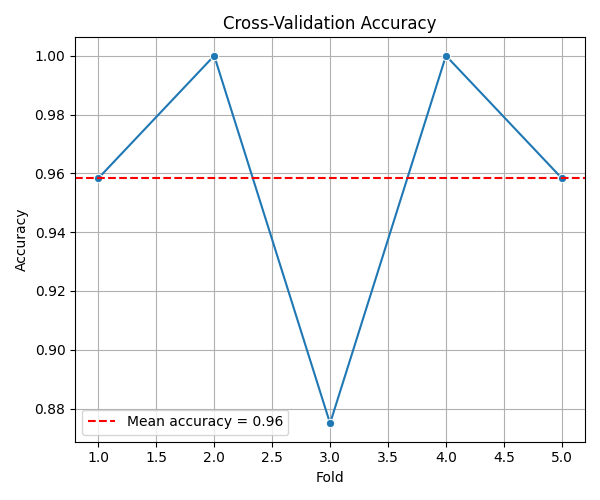
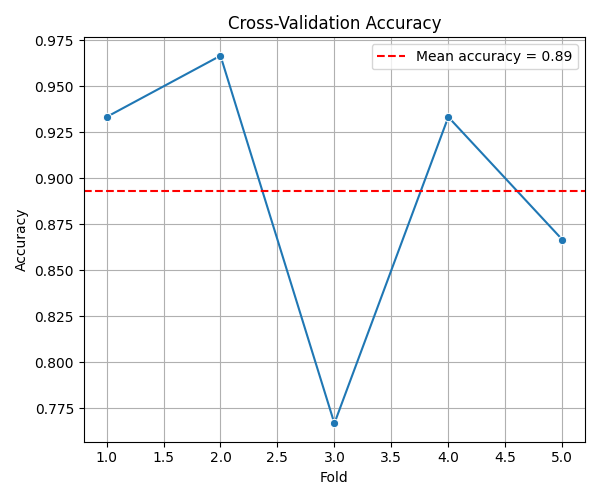
upgarde

diff --git a/main.py b/main.py
@@ -11,19 +11,23 @@ from src.evaluate import evaluate
 from src.visualize import (
     plot_confusion_matrix,
     plot_pca_3d,
-    plot_cross_validation
+    plot_pca_2d_with_boundary,
+    plot_cross_validation,
+    plot_train_val_loss
 )
+from sklearn.linear_model import LogisticRegression
 from src.cross_validation import cross_validate
 from src.config_loader import load_config
-
+from src.train_with_loss import train_with_loss
 
 def main():
-    #1.Load config
+    # 1. Load config
     config = load_config()
 
-    #2.Load data
+    # 2. Load data
     X, y = load_data("data/iris.csv")
 
+    # 3. Cross-validation
     print("---Thực hiện Cross-Validation (K=5)---")
 
     pipeline = make_pipeline(
@@ -48,41 +52,74 @@ def main():
     print(f"Accuracy trung bình: {np.mean(scores):.4f} ± {np.std(scores):.4f}")
     print("-------------------------------------------\n")
 
-    #3.Train / test split
+    # 4. Train / Test split
     X_train, X_test, y_train, y_test = train_test_split(
-        X, y,
-        test_size=config["data"]["test_size"],
-        random_state=config["data"]["random_state"]
+    X, y,  # ← Từ toàn bộ dữ liệu
+    test_size=config["data"]["test_size"],
+    random_state=config["data"]["random_state"],
+    stratify=y
     )
 
-    # 4.Preprocess
-    X_train, X_test = preprocess(X_train, X_test)
+    # 5. Train / Validation split (từ train)
+    X_train, X_val, y_train, y_val = train_test_split(
+    X_train,  # ← Lúc này X_train đã có
+    y_train,
+    test_size=0.2,
+    random_state=42,
+    stratify=y_train
+    )
 
-    # 5.Train model
+    # 6. Preprocess (fit trên train)
+    scaler = StandardScaler()
+    X_train = scaler.fit_transform(X_train)
+    X_val = scaler.transform(X_val)
+    X_test = scaler.transform(X_test)
+
+    # 7. Train + train/val loss
     model = build_model(config)
-    model = train_model(model, X_train, y_train)
+    model, train_losses, val_losses = train_with_loss(
+        model,
+        X_train, y_train,
+        X_val, y_val,
+        epochs=200
+    )
 
-    # 6.Evaluate
+    # 8. Evaluate
     y_pred = evaluate(model, X_test, y_test)
 
-    # 7.Visualization
+    # 9. Visualization
     plot_confusion_matrix(
         y_test, y_pred,
         "results/confusion_matrix.png"
     )
 
-    plot_pca_3d(
+    plot_pca_2d_with_boundary(
     X, y,
-    "results/pca_3d.png"
+    LogisticRegression(max_iter=1000),
+    "results/pca_2d_boundary.png"
+    )
+       
+    plot_pca_3d(
+        X, y,
+        "results/pca_3d.png"
     )
 
-    cv_scores = cross_validate(model, X_train, y_train, cv=5)
-
+    plot_train_val_loss(
+        train_losses,
+        val_losses,
+        "results/train_val_loss.png"
+    )
+    
+    scores = cross_val_score(
+    pipeline,
+    X, y,
+    cv=cv,
+    scoring="accuracy"
+    )
     plot_cross_validation(
-        cv_scores,
-        "results/cross_validation_chart.png"
+    scores,
+    "results/cross_validation_chart.png"
     )
-
 
 if __name__ == "__main__":
     main()

diff --git a/src/visualize.py b/src/visualize.py
@@ -4,8 +4,6 @@ import numpy as np
 from sklearn.metrics import confusion_matrix
 from sklearn.preprocessing import StandardScaler
 from sklearn.decomposition import PCA
-from mpl_toolkits.mplot3d import Axes3D
-
 
 # ================= CONFUSION MATRIX =================
 def plot_confusion_matrix(y_test, y_pred, save_path):
@@ -63,6 +61,57 @@ def plot_pca_3d(X, y, save_path):
     plt.savefig(save_path)
     plt.show()
 
+def plot_pca_2d_with_boundary(X, y, model, save_path):
+ 
+
+    # 1. Scale + PCA
+    scaler = StandardScaler()
+    X_scaled = scaler.fit_transform(X)
+
+    pca = PCA(n_components=2)
+    X_pca = pca.fit_transform(X_scaled)
+
+    # 2. Train model trên PCA space
+    model.fit(X_pca, y)
+
+    # 3. Mesh grid
+    x_min, x_max = X_pca[:, 0].min() - 1, X_pca[:, 0].max() + 1
+    y_min, y_max = X_pca[:, 1].min() - 1, X_pca[:, 1].max() + 1
+    xx, yy = np.meshgrid(
+        np.linspace(x_min, x_max, 300),
+        np.linspace(y_min, y_max, 300)
+    )
+
+    Z = model.predict(np.c_[xx.ravel(), yy.ravel()])
+    Z = Z.reshape(xx.shape)
+
+    # 4. Plot
+    plt.figure(figsize=(7, 6))
+    plt.contourf(xx, yy, Z, alpha=0.25, cmap="viridis")
+
+    scatter = plt.scatter(
+        X_pca[:, 0],
+        X_pca[:, 1],
+        c=y,
+        cmap="viridis",
+        edgecolor="k",
+        s=40
+    )
+
+    plt.xlabel("Principal Component 1")
+    plt.ylabel("Principal Component 2")
+    plt.title("PCA 2D with Decision Boundary")
+
+    legend = plt.legend(
+        *scatter.legend_elements(),
+        title="Classes"
+    )
+    plt.gca().add_artist(legend)
+
+    plt.tight_layout()
+    plt.savefig(save_path)
+    plt.show()
+
 
 # ================= CROSS VALIDATION =================
 def plot_cross_validation(scores, save_path):
@@ -86,3 +135,21 @@ def plot_cross_validation(scores, save_path):
 
     plt.savefig(save_path)
     plt.show()
+
+# ================= TRAIN VS VALIDATION LOSS =================
+def plot_train_val_loss(train_losses, val_losses, save_path):
+    epochs = np.arange(1, len(train_losses) + 1)
+
+    plt.figure(figsize=(6, 5))
+    plt.plot(epochs, train_losses, label="Train Loss")
+    plt.plot(epochs, val_losses, label="Validation Loss")
+
+    plt.xlabel("Epoch")
+    plt.ylabel("Log Loss")
+    plt.title("Training vs Validation Loss")
+    plt.legend()
+    plt.grid(True)
+    plt.tight_layout()
+    plt.savefig(save_path)
+    plt.show()
+

diff --git a/src/train_with_loss.py b/src/train_with_loss.py
@@ -1,0 +1,25 @@
+import numpy as np
+from sklearn.metrics import log_loss
+
+def train_with_loss(model, X_train, y_train, X_val, y_val, epochs=200):
+    train_losses = []
+    val_losses = []
+    classes = np.unique(y_train)
+
+    for epoch in range(epochs):
+        if epoch == 0:
+            model.partial_fit(X_train, y_train, classes=classes)
+        else:
+            model.partial_fit(X_train, y_train)
+
+        # Train loss
+        y_train_prob = model.predict_proba(X_train)
+        train_loss = log_loss(y_train, y_train_prob)
+        train_losses.append(train_loss)
+
+        # Validation loss
+        y_val_prob = model.predict_proba(X_val)
+        val_loss = log_loss(y_val, y_val_prob)
+        val_losses.append(val_loss)
+
+    return model, train_losses, val_losses

diff --git a/src/model.py b/src/model.py
@@ -1,8 +1,9 @@
-from sklearn.linear_model import LogisticRegression
+from sklearn.linear_model import SGDClassifier
 
 def build_model(config):
-    model = LogisticRegression(
-        solver="lbfgs",
-        max_iter=config["model"]["max_iter"]
+    return SGDClassifier(
+        loss="log_loss",                
+        learning_rate="constant",
+        eta0=config["model"]["learning_rate"],
+        random_state=42
     )
-    return model
